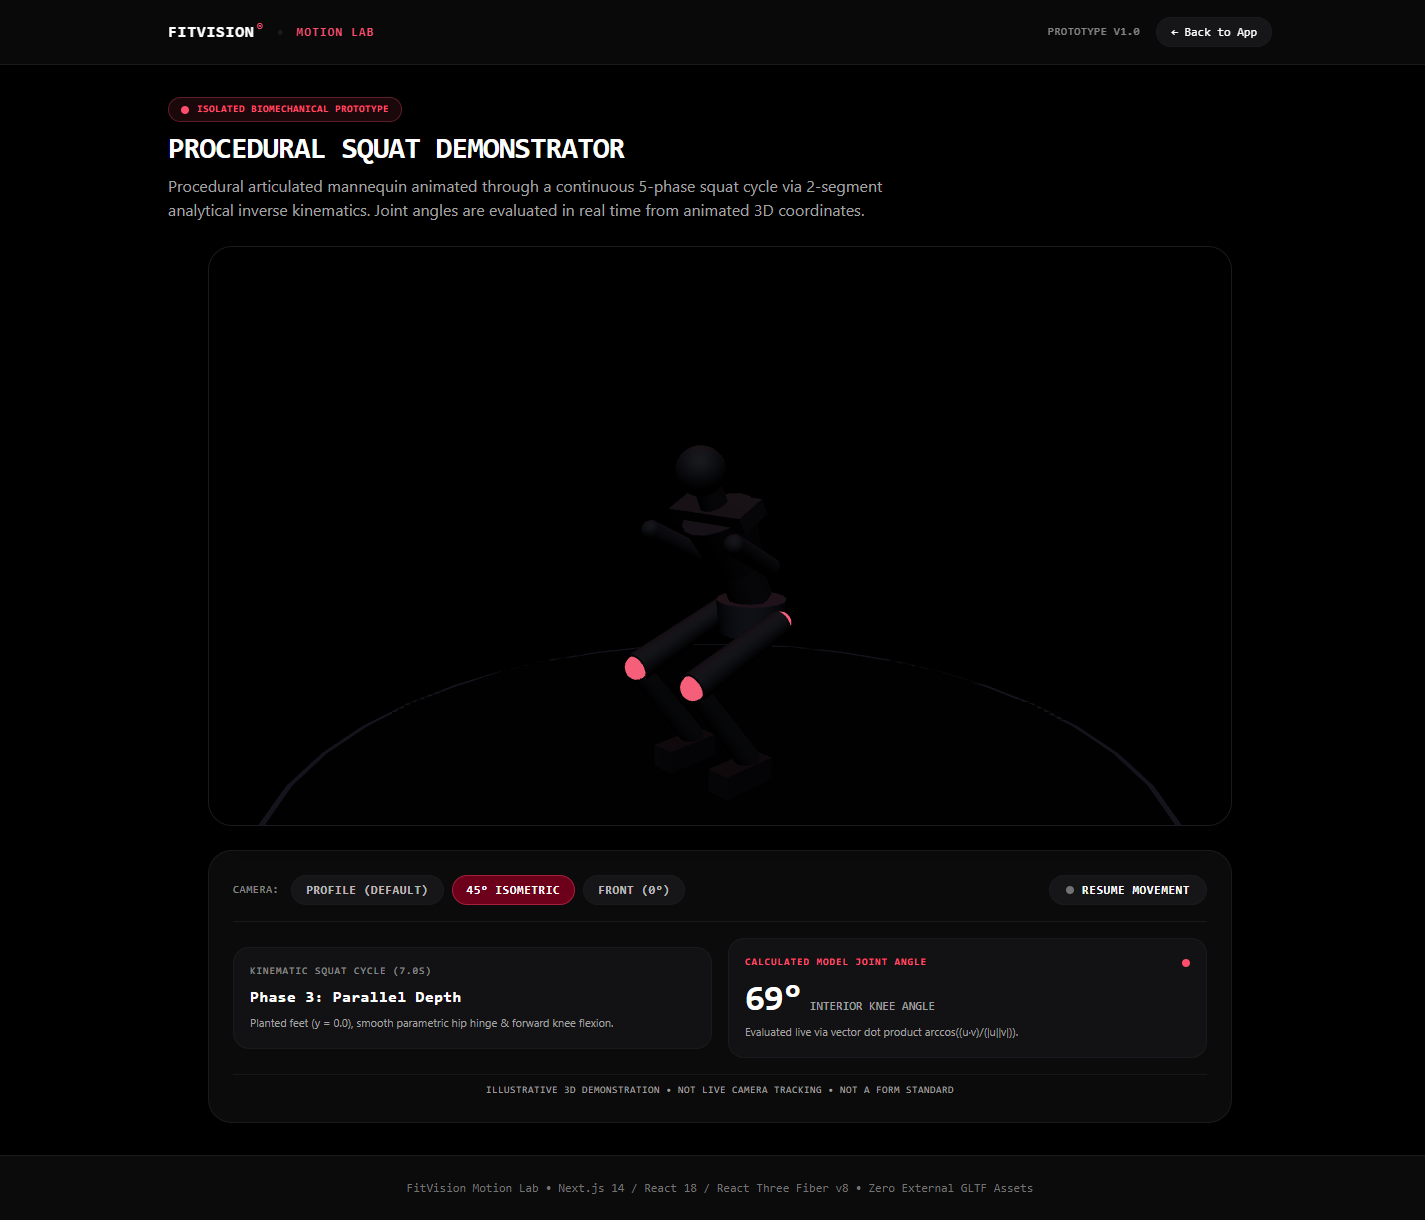
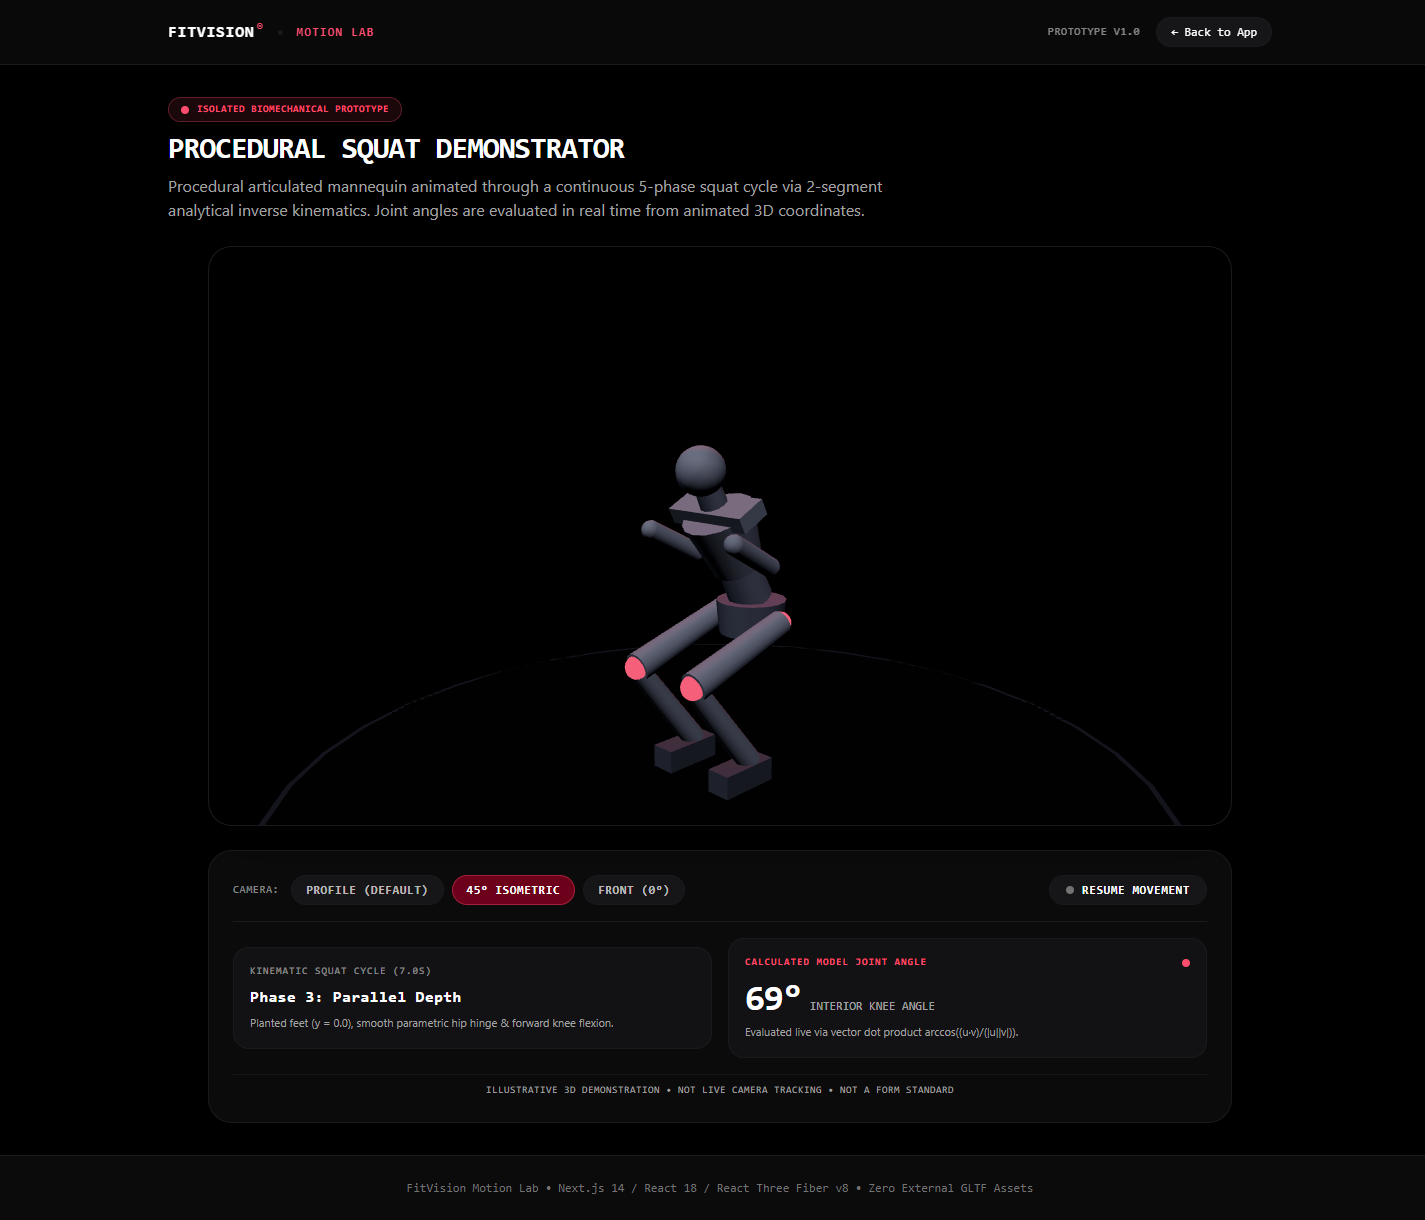
fix(motion-lab): elevate mannequin material visibility, rebalance lighting, and compute geometric lengths for unreachable IK

Changed region(s): [[0.4323, 0.3426, 0.5558, 0.6541]]

diff --git a/frontend/tests/motion_lab_math.test.ts b/frontend/tests/motion_lab_math.test.ts
@@ -115,7 +115,7 @@ describe('joint_math - solveTwoSegmentPlanarIK Singularity & Reach', () => {
     expect(angle).toBeCloseTo(180.0, 4);
   });
 
-  it('explicitly rejects over-extension (D = 0.90m) with valid: false and safe finite output', () => {
+  it('explicitly rejects over-extension (D = 0.90m) with valid: false, finite coordinates, and true geometric distances', () => {
     const D = 0.90; // Over-extension beyond 0.86m
     const yh = ya + D;
     const zh = za;
@@ -125,11 +125,21 @@ describe('joint_math - solveTwoSegmentPlanarIK Singularity & Reach', () => {
     expect(ik.isSingular).toBe(true);
     expect(Number.isFinite(ik.kneeY)).toBe(true);
     expect(Number.isFinite(ik.kneeZ)).toBe(true);
-    expect(ik.actualThighLength).toBeCloseTo(L1, 4);
-    expect(ik.actualShankLength).toBeCloseTo(L2, 4);
+    expect(Number.isFinite(ik.actualThighLength)).toBe(true);
+    expect(Number.isFinite(ik.actualShankLength)).toBe(true);
+
+    // Returned lengths must equal true geometric Euclidean distances from returned coordinates
+    const trueThighDistance = Math.hypot(yh - ik.kneeY, zh - ik.kneeZ);
+    const trueShankDistance = Math.hypot(ik.kneeY - ya, ik.kneeZ - za);
+    expect(ik.actualThighLength).toBeCloseTo(trueThighDistance, 6);
+    expect(ik.actualShankLength).toBeCloseTo(trueShankDistance, 6);
+
+    // Specifically: clamped knee at ya + L2 = 0.50m yields 0.48m thigh distance and 0.42m shank distance
+    expect(ik.actualThighLength).toBeCloseTo(0.48, 4);
+    expect(ik.actualShankLength).toBeCloseTo(0.42, 4);
   });
 
-  it('explicitly rejects under-extension collapse (D = 0.01m) with valid: false and safe finite output', () => {
+  it('explicitly rejects under-extension collapse (D = 0.01m) with valid: false, finite coordinates, and true geometric distances', () => {
     const D = 0.01; // Below minReach |L1 - L2| = 0.02m
     const yh = ya + D;
     const zh = za;
@@ -139,6 +149,18 @@ describe('joint_math - solveTwoSegmentPlanarIK Singularity & Reach', () => {
     expect(ik.isSingular).toBe(true);
     expect(Number.isFinite(ik.kneeY)).toBe(true);
     expect(Number.isFinite(ik.kneeZ)).toBe(true);
+    expect(Number.isFinite(ik.actualThighLength)).toBe(true);
+    expect(Number.isFinite(ik.actualShankLength)).toBe(true);
+
+    // Returned lengths must equal true geometric Euclidean distances from returned coordinates
+    const trueThighDistance = Math.hypot(yh - ik.kneeY, zh - ik.kneeZ);
+    const trueShankDistance = Math.hypot(ik.kneeY - ya, ik.kneeZ - za);
+    expect(ik.actualThighLength).toBeCloseTo(trueThighDistance, 6);
+    expect(ik.actualShankLength).toBeCloseTo(trueShankDistance, 6);
+
+    // Clamped knee at ya + L2 = 0.50m yields |0.09 - 0.50| = 0.41m thigh distance and 0.42m shank distance
+    expect(ik.actualThighLength).toBeCloseTo(0.41, 4);
+    expect(ik.actualShankLength).toBeCloseTo(0.42, 4);
   });
 });
 

diff --git a/frontend/src/components/motion-lab/MotionLabCanvas.tsx b/frontend/src/components/motion-lab/MotionLabCanvas.tsx
@@ -129,15 +129,17 @@ export default function MotionLabCanvas({
       >
         {/* Studio Lighting Setup */}
         {/* Soft Neutral Key Light */}
-        <directionalLight position={[3.2, 4.8, 3.6]} intensity={1.5} color="#F8F9FA" />
+        <directionalLight position={[3.5, 5.0, 3.5]} intensity={2.2} color="#FFFFFF" />
+        {/* Dedicated Front-Left Studio Fill Light (prevents dark side shadow crushing) */}
+        <directionalLight position={[-3.2, 3.2, 3.0]} intensity={1.1} color="#D4D8E2" />
         {/* Restrained Burgundy / Signal-Rose Contour Rim Light */}
-        <directionalLight position={[-3.2, 3.8, -3.2]} intensity={1.2} color="#851630" />
-        {/* Secondary Lateral Contour Fill */}
-        <directionalLight position={[-2.5, 1.5, 2.5]} intensity={0.4} color="#383B46" />
+        <directionalLight position={[-3.5, 4.0, -3.5]} intensity={1.8} color="#D8385A" />
+        {/* Secondary Lateral Contour */}
+        <directionalLight position={[3.0, 2.0, -2.5]} intensity={0.6} color="#464A58" />
         {/* Hemisphere Ambient Ground/Sky Balance */}
-        <hemisphereLight args={['#32333D', '#121214', 0.65]} />
+        <hemisphereLight args={['#505466', '#1A1B22', 0.85]} />
         {/* Ambient Base Fill */}
-        <ambientLight intensity={0.25} color="#202026" />
+        <ambientLight intensity={0.35} color="#2A2B34" />
 
         {/* Studio Ground Reference Disc */}
         <group position={[0, -0.001, 0]}>

diff --git a/frontend/src/components/motion-lab/ProceduralMannequin.tsx b/frontend/src/components/motion-lab/ProceduralMannequin.tsx
@@ -68,22 +68,22 @@ export default function ProceduralMannequin({
   // Shared Materials
   const materials = useMemo(() => {
     return {
-      // Matte athletic graphite/slate finish (strictly non-metallic, roughness 0.75)
+      // Matte athletic technical slate finish (strictly non-metallic, elevated brightness)
       graphiteBody: new THREE.MeshStandardMaterial({
-        color: '#2C2D35',
-        roughness: 0.75,
+        color: '#666A78',
+        roughness: 0.72,
         metalness: 0.0,
       }),
-      // Slightly deeper matte carbon for torso & spine
+      // Matte deeper carbon for torso & spine (clear visual separation from limbs)
       carbonTorso: new THREE.MeshStandardMaterial({
-        color: '#24252C',
-        roughness: 0.78,
+        color: '#565A68',
+        roughness: 0.76,
         metalness: 0.0,
       }),
       // Articulated pelvis/hip connector tone
       pelvisMaterial: new THREE.MeshStandardMaterial({
-        color: '#363842',
-        roughness: 0.72,
+        color: '#4A4E5C',
+        roughness: 0.74,
         metalness: 0.0,
       }),
       // Signal-Rose joint node beacons
@@ -97,7 +97,7 @@ export default function ProceduralMannequin({
       }),
       // Muted foot sole
       footMaterial: new THREE.MeshStandardMaterial({
-        color: '#222329',
+        color: '#3A3E4A',
         roughness: 0.82,
         metalness: 0.0,
       }),

diff --git a/frontend/src/components/motion-lab/joint_math.ts b/frontend/src/components/motion-lab/joint_math.ts
@@ -174,11 +174,13 @@ export function solveTwoSegmentPlanarIK(
   if (D > maxReach + eps) {
     const uy = dy / D;
     const uz = dz / D;
+    const kneeY = ya + L2 * uy;
+    const kneeZ = za + L2 * uz;
     return {
-      kneeY: ya + L2 * uy,
-      kneeZ: za + L2 * uz,
-      actualThighLength: L1,
-      actualShankLength: L2,
+      kneeY,
+      kneeZ,
+      actualThighLength: Math.sqrt((yh - kneeY) ** 2 + (zh - kneeZ) ** 2),
+      actualShankLength: Math.sqrt((kneeY - ya) ** 2 + (kneeZ - za) ** 2),
       valid: false,
       isSingular: true,
     };
@@ -188,11 +190,13 @@ export function solveTwoSegmentPlanarIK(
   if (D < minReach - eps) {
     const uy = D > eps ? dy / D : 1;
     const uz = D > eps ? dz / D : 0;
+    const kneeY = ya + L2 * uy;
+    const kneeZ = za + L2 * uz;
     return {
-      kneeY: ya + L2 * uy,
-      kneeZ: za + L2 * uz,
-      actualThighLength: L1,
-      actualShankLength: L2,
+      kneeY,
+      kneeZ,
+      actualThighLength: Math.sqrt((yh - kneeY) ** 2 + (zh - kneeZ) ** 2),
+      actualShankLength: Math.sqrt((kneeY - ya) ** 2 + (kneeZ - za) ** 2),
       valid: false,
       isSingular: true,
     };

diff --git a/PROJECT_STATE.md b/PROJECT_STATE.md
@@ -3,7 +3,7 @@
 > Every AI agent: read this first. Update it at the end of every session (see AGENTS.md section 9).
 > Progress percentages are rough estimates, not measurements. Update honestly.
 
-**Last updated:** 2026-11-12 | **Session #:** 20
+**Last updated:** 2026-11-12 | **Session #:** 21
 **Updated by:** Antigravity (Gemini 3.8 Flash) — feat/motion-lab-prototype branch
 **Repo:** https://github.com/SAGETOAD-source/fitvision (branch `main`)
 **Owner:** Krishnendu | **Dev environment:** Windows, Antigravity IDE
@@ -307,6 +307,7 @@ Models are expected at `../models/` relative to the working directory (`MODELS_D
 | 18 | 2026-11-12 | Antigravity (Gemini 3.8 Flash) | Built isolated procedural 3D squat demonstrator prototype at /motion-lab: added three (^0.169.0) and @react-three/fiber (^8.18.0) while omitting Drei to prevent MediaPipe peer conflicts; implemented two-segment analytical planar IK mannequin with forward-bending knee branch and planted feet (y=0); pure vector angle math (calculateInteriorKneeAngle with clamping and degenerate handling; 9 Vitest tests); Next.js 14 App Router server page + client coordinator with ssr:false dynamic import, IntersectionObserver frameloop gating, native OrbitControls with pan disabled and clamped zoom/polar angles, accessible camera view buttons (Profile default, 45°, Front), play/pause toggle, throttled 10Hz angle HUD, and static SVG fallback. All 55 frontend tests and 123 backend tests pass; Next.js production build succeeds; verified WebGL 2.0 initialization and kinematic progression in browser. | frontend/package.json, frontend/package-lock.json, frontend/src/app/motion-lab/page.tsx, frontend/src/components/motion-lab/*, frontend/tests/motion_lab_math.test.ts, design/motion-lab-preview.png, PROJECT_STATE.md |
 | 19 | 2026-11-12 | Antigravity (Gemini 3.8 Flash) | Reconciled standing hip height from 0.92m to 0.9331m producing near-extended, non-singular 165.5° interior knee angle with 5.4cm forward knee flexion and 6.9mm extension headroom; preserved 68.9° bottom parallel depth; verified C0/C1 continuity, no branch flipping, and absence of NaNs across 100 trajectory steps; verified live HUD dynamic evaluation (165° lockout -> 69° depth); captured fresh standing profile screenshot (design/motion-lab-preview.png). 57 Vitest tests and 123 Pytest tests pass; Next.js production build succeeds. | frontend/src/components/motion-lab/ProceduralMannequin.tsx, frontend/tests/motion_lab_math.test.ts, design/motion-lab-preview.png, PROJECT_STATE.md |
 | 20 | 2026-11-12 | Antigravity (Gemini 3.8 Flash) | Milestone 2 Refinements: Refined studio lighting (neutral key + restrained burgundy rim #851630) and matte non-metallic materials (metalness: 0, roughness 0.72–0.82); decoupled OrbitControls pointer drag from camera preset lerp via 'start' interaction listener; removed hardcoded initial angle state in favor of nullable initial placeholder ('—°'); expanded joint_math unit tests to verify C1 velocity continuity across 5 phase boundaries (finite-difference tolerance < 0.005 m/s, < 0.5°/s), exact singular collinear configuration (D = 0.86m, 180°), near-singular reach (D = 0.8599m, 178.25°), and unreachable over/under-extensions; captured multi-angle review screenshots. 61 Vitest tests + 123 Pytest tests pass; Next.js production build succeeds. | frontend/src/components/motion-lab/*, frontend/tests/motion_lab_math.test.ts, design/motion-lab-*.png, PROJECT_STATE.md |
+| 21 | 2026-11-12 | Antigravity (Gemini 3.8 Flash) | Milestone 2.1 Refinements: Substantially elevated matte non-metallic mannequin material brightness (#666A78 technical slate, #565A68 torso, #4A4E5C pelvis, metalness: 0, roughness 0.72–0.82) and rebalanced studio lighting (key 2.2, dedicated front-left fill 1.0, contour rim 1.8, hemisphere 0.85); corrected unreachable IK metadata to compute true geometric Euclidean distances from clamped coordinates; updated unit tests verifying both unreachable cases independently; captured fresh high-visibility review screenshots (motion-lab-*.png). All 61 Vitest tests pass; Next.js production build succeeds. | frontend/src/components/motion-lab/*, frontend/tests/motion_lab_math.test.ts, design/motion-lab-*.png, PROJECT_STATE.md |
 
 ---
 
@@ -320,7 +321,7 @@ You are continuing work on FitVision (repo: SAGETOAD-source/fitvision).
    - ML pipeline done for 6 exercises; FastAPI backend has complete /v1 API suite (123 tests pass) with hardened auth and proxy-aware rate limiting.
    - Frontend: M0 Parity Prototype and Mobile-First Live Workout screen complete (/workout). 61 Vitest tests + 123 Pytest tests pass. Next.js production build succeeds.
    - Design: Landing page designs refined across hero-01.html, landing-desktop.html, and landing-mobile.html. Review screenshots generated in design/*-review.png.
-   - Motion Lab: Isolated procedural 3D squat demonstrator prototype complete and refined on branch feat/motion-lab-prototype at route /motion-lab. Milestone 2 completed: matte non-metallic materials (metalness: 0, roughness 0.72–0.82), refined studio lighting (neutral key + restrained burgundy rim #851630), decoupled OrbitControls with instant manual drag takeover and smooth preset lerping, nullable initial angle ('—°' placeholder), C1 velocity continuity across 5 phase boundaries (< 0.005 m/s tolerance), exact singular collinear 180° handling, and multi-angle captures (motion-lab-profile-stand.png, motion-lab-iso-bottom.png, motion-lab-front.png, motion-lab-mobile.png). Three.js/R3F are strictly isolated from /workout.
+   - Motion Lab: Isolated procedural 3D squat demonstrator prototype complete and verified on branch feat/motion-lab-prototype at route /motion-lab. Milestone 2.1 completed: substantially elevated matte non-metallic materials (#666A78 technical slate, metalness 0, roughness 0.72-0.82), rebalanced studio lighting (key 2.2, dedicated front-left fill 1.0, contour rim 1.8, hemisphere 0.85), true geometric distance calculation in unreachable IK branches, decoupled OrbitControls with instant manual drag takeover, nullable initial angle ('—°' placeholder), C1 velocity continuity across 5 phase boundaries (< 0.005 m/s tolerance), exact singular collinear 180° handling, and high-visibility multi-angle captures (motion-lab-profile-stand.png, motion-lab-iso-bottom.png, motion-lab-front.png, motion-lab-mobile.png). Three.js/R3F are strictly isolated from /workout.
 4. Next recommended task: Conduct real-device mobile performance measurements, or proceed to Milestone 1 (M1) - Auth + Onboarding: Signup, login, route guard, profile screen (goal & focus selection) per FRONTEND_SPEC.md/PROJECT_STATE.md contracts.
 5. At the end, update PROJECT_STATE.md fully.
 ```
